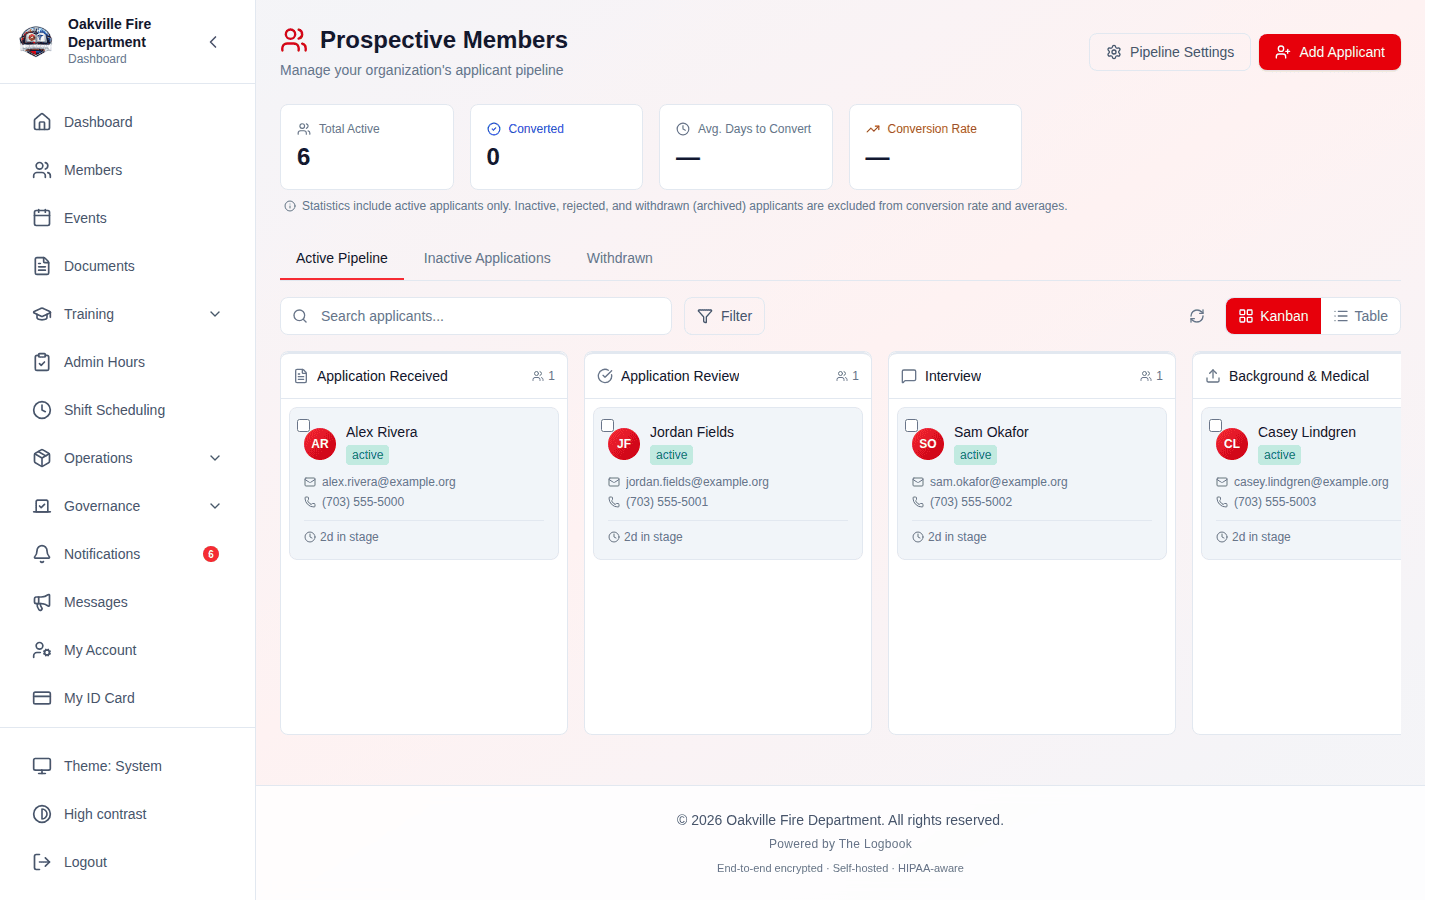
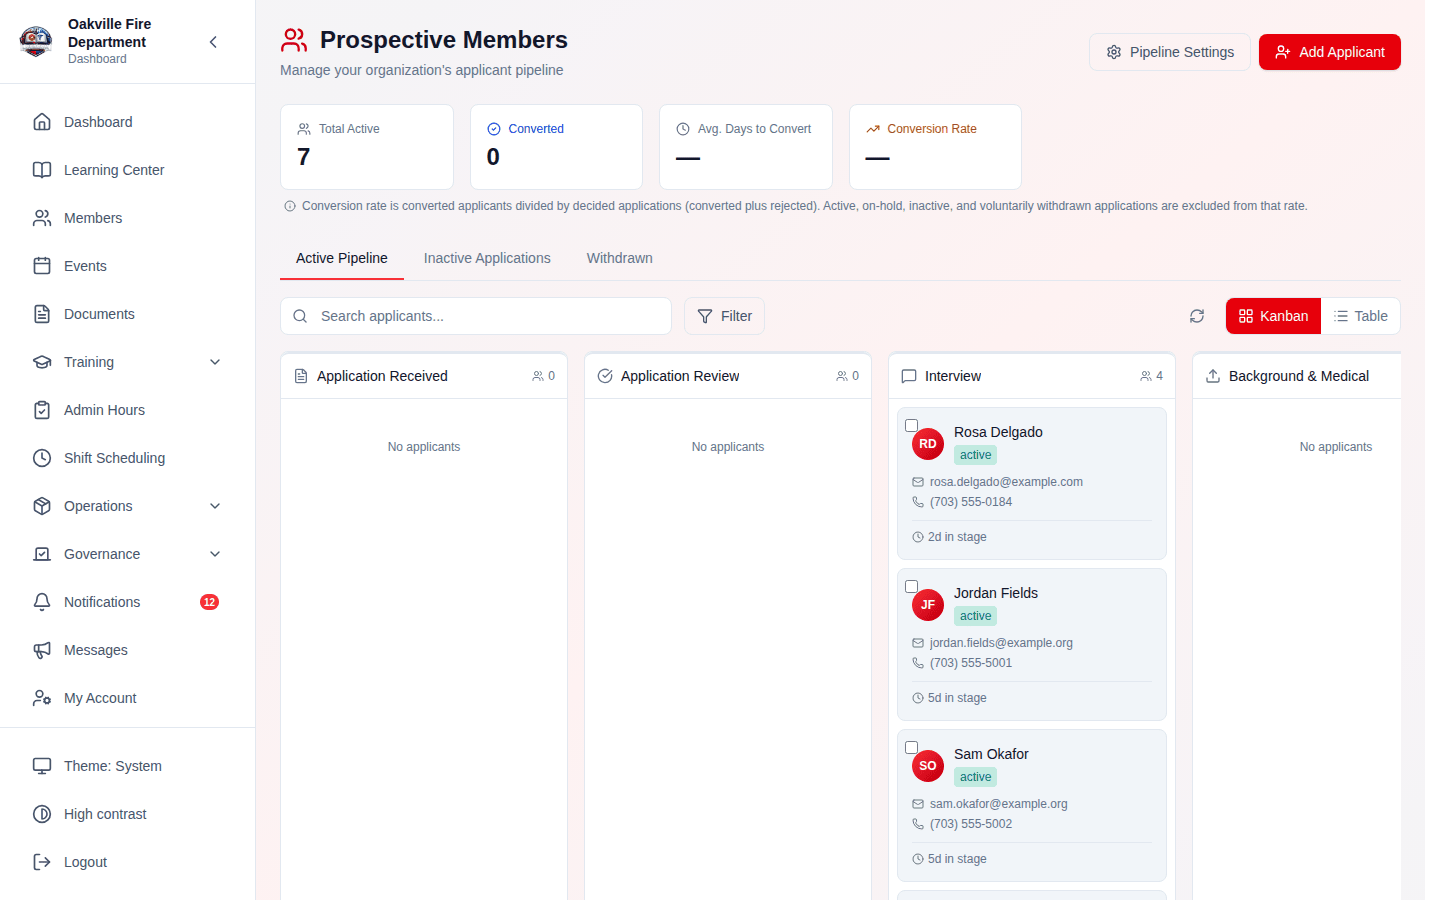
fix(pipeline): eager-load interviews so advancing a prospect can validate
`POST /prospective-members/prospects/{id}/advance` answered 500 whenever the
prospect's stage was an `interview_requirement`. `_validate_step_completion`
counts `prospect.interviews`, a lazy backref that `get_prospect` did not
eager-load, so the read happened mid-await and SQLAlchemy raised
MissingGreenlet — past the endpoint's ValueError handling, which exists to turn
business-rule failures into a 409.

Interview is the third stage of the default pipeline, so this blocked advancing
anyone out of it, singly or in bulk. `15-09-bulk-action-result` was documenting
that as normal: its toast read "Skipped 7: Rosa Delgado (Action failed); Morgan
Tran (Prospect is already at the final stage) … and 4 more" — seven applicants,
not one able to move.

I had filed this as needing an audit of the validator's loading strategy before
patching. The audit is one line long: `interviews` is the only relationship it
reads that was not already loaded. With it loaded the validator runs and the
existing handling does the rest, so the toast now reads "This step requires at
least 1 interview(s); only 0 recorded." A second test guards the audit rather
than the one relationship, failing if the validator ever reads another unloaded
one.

Also removes the KNOWN_LIMITATIONS entry, and commits three guide-15 images —
all opened — whose empty-state flags are the same false positive as guide 01's.

Claude-Session: https://claude.ai/code/session_01MR3YDBTkhiX8tzyQovuUKc

diff --git a/backend/tests/test_membership_pipeline_service.py b/backend/tests/test_membership_pipeline_service.py
@@ -249,3 +249,52 @@ class TestChecklistStepGate:
             self._prospect(None),
             self._step(["Gear issued"], require_all=False),
         )
+
+
+class TestGetProspectEagerLoadsWhatValidationReads:
+    """`_validate_step_completion` must not trigger a lazy load.
+
+    It counts `prospect.interviews` when the step is an interview_requirement.
+    That is a lazy backref, so reading it mid-await raised MissingGreenlet and
+    surfaced as a 500 from advance/complete — past the endpoint's ValueError
+    handling, which turns real business-rule failures into a 409. Interview is
+    the third stage of the default pipeline, so it blocked advancing anyone out
+    of it, one at a time or in bulk.
+    """
+
+    def test_interviews_is_in_the_eager_load_list(self):
+        import inspect as _inspect
+
+        from app.services.membership_pipeline_service import (
+            MembershipPipelineService,
+        )
+
+        source = _inspect.getsource(MembershipPipelineService.get_prospect)
+
+        assert "selectinload(ProspectiveMember.interviews)" in source, (
+            "get_prospect must eager-load interviews; _validate_step_completion "
+            "reads it and a lazy load there raises MissingGreenlet"
+        )
+
+    def test_validation_reads_no_other_unloaded_relationship(self):
+        """Guard the audit, not just the one relationship that bit us."""
+        import inspect as _inspect
+        import re
+
+        from app.services.membership_pipeline_service import (
+            MembershipPipelineService,
+        )
+
+        validator = _inspect.getsource(
+            MembershipPipelineService._validate_step_completion
+        )
+        loaded = _inspect.getsource(MembershipPipelineService.get_prospect)
+
+        # Relationship reads look like getattr(prospect, "name", ...) or
+        # prospect.name — collect both and check each is eager-loaded.
+        touched = set(re.findall(r'getattr\(\s*prospect,\s*"([a-z_]+)"', validator))
+        for name in touched:
+            assert f"ProspectiveMember.{name}" in loaded, (
+                f"_validate_step_completion reads prospect.{name} but "
+                "get_prospect does not eager-load it"
+            )

diff --git a/backend/app/services/membership_pipeline_service.py b/backend/app/services/membership_pipeline_service.py
@@ -698,6 +698,14 @@ class MembershipPipelineService:
                 selectinload(ProspectiveMember.step_progress).selectinload(
                     ProspectStepProgress.step
                 ),
+                # `_validate_step_completion` counts these when the step is an
+                # interview_requirement. It is a lazy backref, so without it the
+                # read happens mid-await and SQLAlchemy raises MissingGreenlet —
+                # surfacing as a 500 from advance/complete rather than anything
+                # the endpoint's ValueError handling can turn into a 4xx.
+                # Interview is the third stage of the default pipeline, so this
+                # blocked advancing anyone past it, including in bulk.
+                selectinload(ProspectiveMember.interviews),
             )
             # Refresh identity-map instances: the prospect's pipeline/steps
             # may already be cached in this session from an earlier call, and

diff --git a/docs/training/SCREENSHOT_CURRENCY.md b/docs/training/SCREENSHOT_CURRENCY.md
@@ -43,6 +43,41 @@ committed. Images that changed but were not opened are deliberately left
 uncommitted rather than taken on trust — see the navigation incident below for
 why that rule exists.
 
+### 15-prospective-members — in progress, and it found the advance bug's real cost
+
+`15-01-pipeline-board` and `15-14-applicant-drawer-overview` are populated now
+that the pipeline has stages, and their empty-state flags are the same false
+positive as guide 01's (some columns legitimately read "No applicants";
+a drawer for an applicant with no uploads reads "No documents yet"). Suppressed
+with that reasoning beside the entries.
+
+**`15-09-bulk-action-result` was displaying the 500 verbatim.** Its toast read
+"Skipped 7: Rosa Delgado (**Action failed**); Morgan Tran (Prospect is already
+at the final stage) … and 4 more" — every one of seven applicants refused, four
+of them by the MissingGreenlet crash. So the advance bug was not an edge case:
+it blocked the whole bulk workflow, and this screenshot was documenting it as
+normal behaviour.
+
+Fixed rather than filed. The audit that entry said was needed turned out to be
+one line long: `_validate_step_completion` reads exactly one relationship that
+`get_prospect` did not eager-load, `interviews`. Adding it lets the validator
+actually run, and the endpoint's existing `ValueError` → 409 handling does the
+rest. The toast now reads "This step requires at least 1 interview(s); only 0
+recorded." — a real business-rule answer instead of a crash. A second test
+guards the audit rather than the single relationship, failing if the validator
+ever reads another unloaded one.
+
+Two shots still failing, both about seed data rather than code:
+`15-02-board-truncated` (`locator.waitFor` timeout — the board needs more
+applicants than fit a column) and `15-13-application-status` ("no applicant
+carries a status token").
+
+The board's spread is also lopsided — four in Interview, three in Onboarding,
+three stages empty — because the seeder's advance loop only ran for
+newly-created prospects, and the ones already in the database could not be
+moved while advance was crashing. Now that it returns a proper 409, spreading
+them needs interviews recorded first.
+
 ### 01-membership — images complete, 19 of 19 verified
 
 The last five opened and current: `01-05-add-member-form`,

diff --git a/docs/KNOWN_LIMITATIONS.md b/docs/KNOWN_LIMITATIONS.md
@@ -1517,29 +1517,6 @@ position model to the ballot-item model the public page already uses, including
 its submission shape. Needs an owner decision on whether to converge the two
 ballots or retire one of them. This loop does not make that call.
 
-## Prospective Members — Advancing Out of an Interview Stage Returns 500 (2026-08-13)
-
-`POST /api/v1/prospective-members/prospects/{id}/advance` answers **500** when
-the prospect's current stage is an `interview_requirement`. It is not a handled
-error: `MembershipPipelineService._validate_step_completion` reads
-`prospect.interviews` — a lazily-loaded relationship — inside async context, and
-SQLAlchemy raises `MissingGreenlet` ("greenlet_spawn has not been called").
-
-The endpoint already maps `ValueError` to a 409 for the legitimate "nowhere to
-advance to" cases, so the surrounding error handling is deliberate; this one
-escapes it entirely and reaches the unhandled-exception handler.
-
-**Interview is the third stage of the default pipeline**, so any department
-using the shipped stage set hits this the first time it tries to move an
-applicant past it. The applicant cannot be advanced through the UI either, since
-the button calls the same endpoint.
-
-The fix is to eager-load `interviews` (and to audit the other relationships
-`_validate_step_completion` touches for the same pattern) rather than to catch
-the error — a lazy load in async context is the defect, not the symptom. Left
-for an owner because it wants a proper audit of that validator's loading
-strategy rather than a one-relationship patch from a documentation pass.
-
 ## Training — The Student View of a Cohort Has No Frontend (2026-08-12)
 
 The API implements it. `GET /training/cohorts/{id}` served to a member on the
